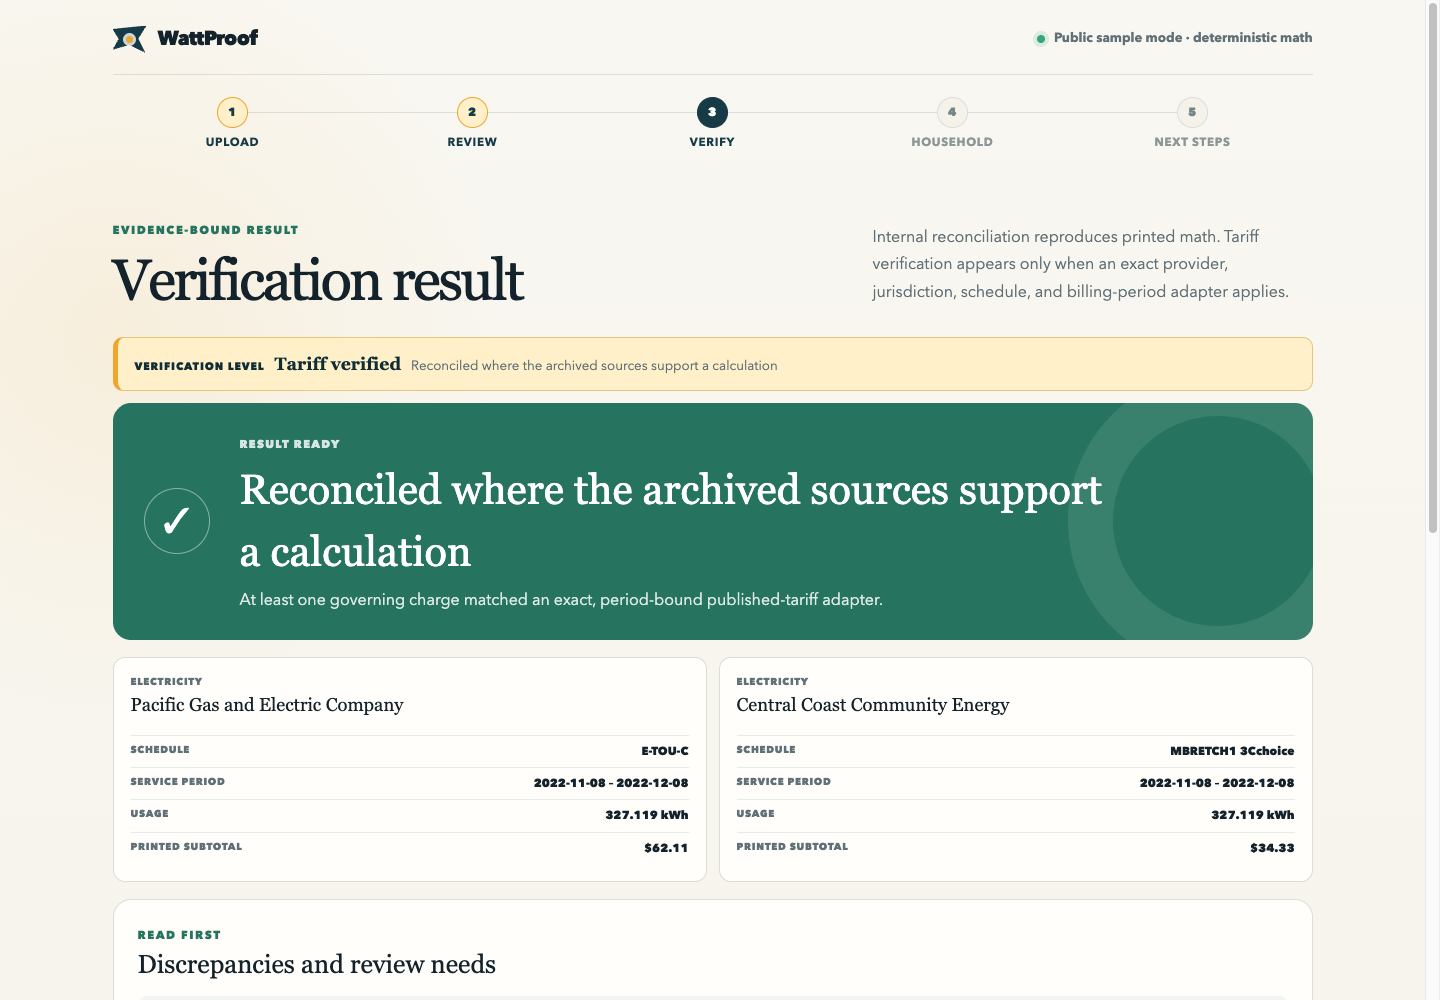
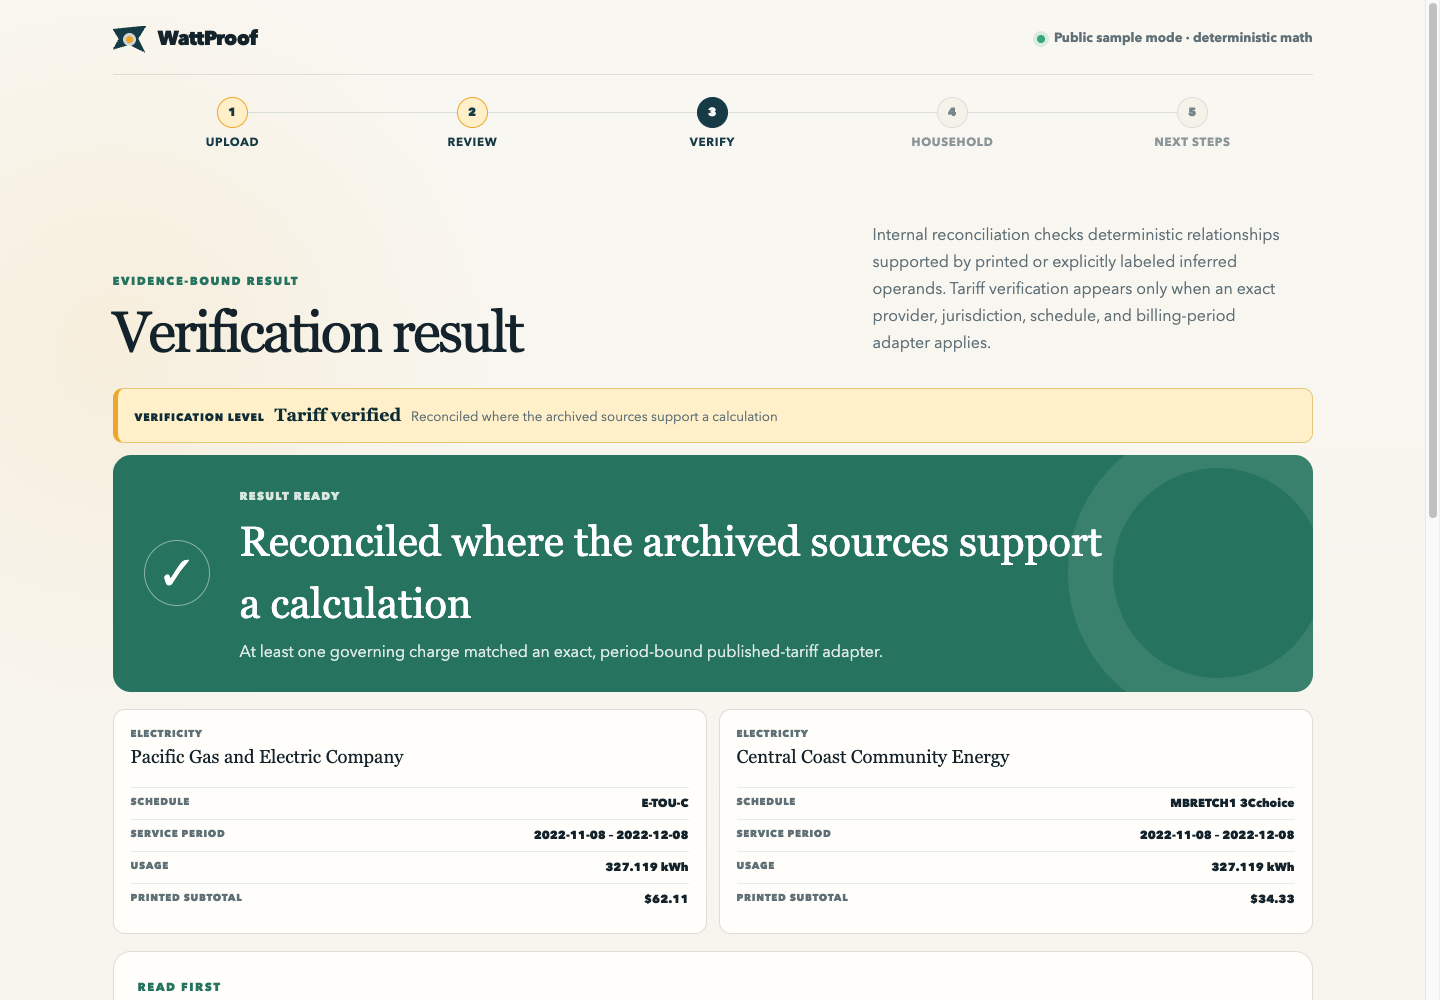
Refresh partial tariff screenshot evidence

diff --git a/docs/screenshots/README.md b/docs/screenshots/README.md
@@ -1,13 +1,16 @@
 # Screenshot evidence
 
 These seven PNGs are direct viewport captures of the real Flask application. Each
-manifest row records its exact source commit. Five captures remain from
+manifest row records its exact source commit. Four captures remain from
 `9a5611880a0f9ee0e4fdfe6cb04a706304c4905c` (`Refresh bundle summaries and release
 previews`). The Duke and CenterPoint results were refreshed from
 `6b5ace1339a1c0c60ed59cc9f386c320d6356977` (`Deduplicate multi-root audit
 dependencies`) to show the precise boundary covering printed operands and explicitly
 labeled inferred operands, plus the current usage, tier, and multi-root reconciliation
-behavior. No production UI or backend file differed from the source commit listed for
+behavior. The PG&E/3CE result was refreshed from
+`374953162f61e1d67b312c07cbd00944990b73f7` (`Enforce root-before-dependent ledger
+order`) to capture the honest partial tariff-coverage level and current cited ledger
+boundary. No production UI or backend file differed from the source commit listed for
 an image during its capture.
 
 Every image was produced by Chromium from the real Flask application on a loopback
@@ -21,7 +24,7 @@ were used; no upload, account identity, private bill, or personal data appears.
 | File | Exact viewport | Public sample(s) | Navigation and frame position | Visible verification level | Capture source | Real-app and no-PII confirmation |
 | --- | --- | --- | --- | --- | --- | --- |
 | `multi-utility-upload-desktop.png` | `1440 × 1000` | None selected; all public fixture controls visible | Open `/`; keep Upload at `scrollY=0` | N/A — Upload | `9a5611880a0f9ee0e4fdfe6cb04a706304c4905c` | Real Flask/Chrome viewport; public controls only; no PII |
-| `pge-tariff-verified-desktop.png` | `1440 × 1000` | Public anonymized PG&E/3CE authentic fixture | Upload → **Audit authentic sample** → Review → **Confirm & run checks**; capture the top of Verify | **Tariff verified** | `9a5611880a0f9ee0e4fdfe6cb04a706304c4905c` | Real Flask/Chrome clicks; anonymized public fixture; no PII |
[3 lines of base64/hex data omitted]
 | `household-bundle-desktop.png` | `1440 × 1000` | Duke → CenterPoint → Bloomington | Complete Duke → **Add another bill** → complete CenterPoint → **Add another bill** → complete Bloomington → **Finish household review**; capture Household at the top | **Internally reconciled** on all three retained cards | `9a5611880a0f9ee0e4fdfe6cb04a706304c4905c` | Real sequential Flask/Chrome flow; three public fixtures; no PII |